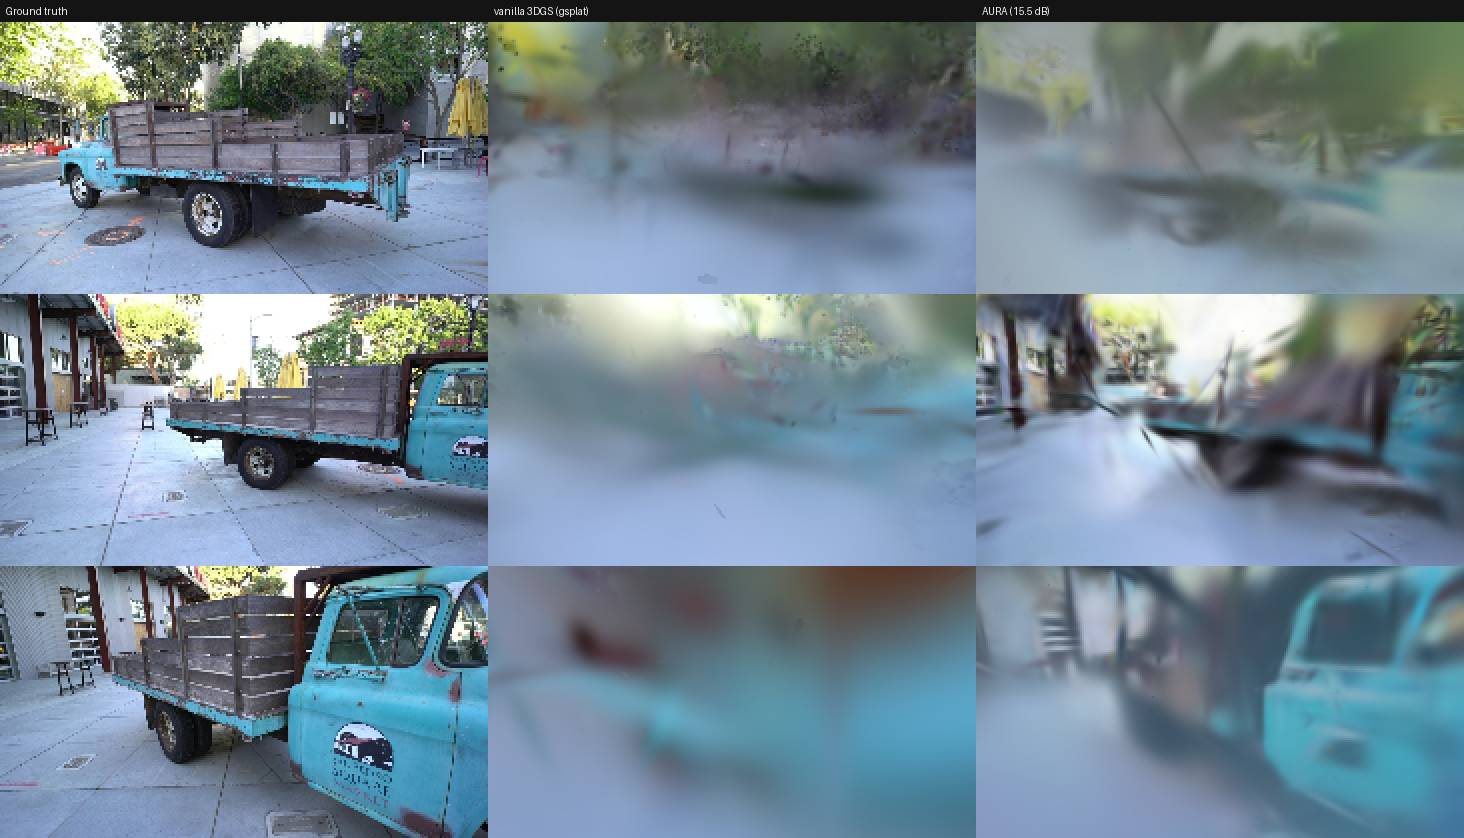
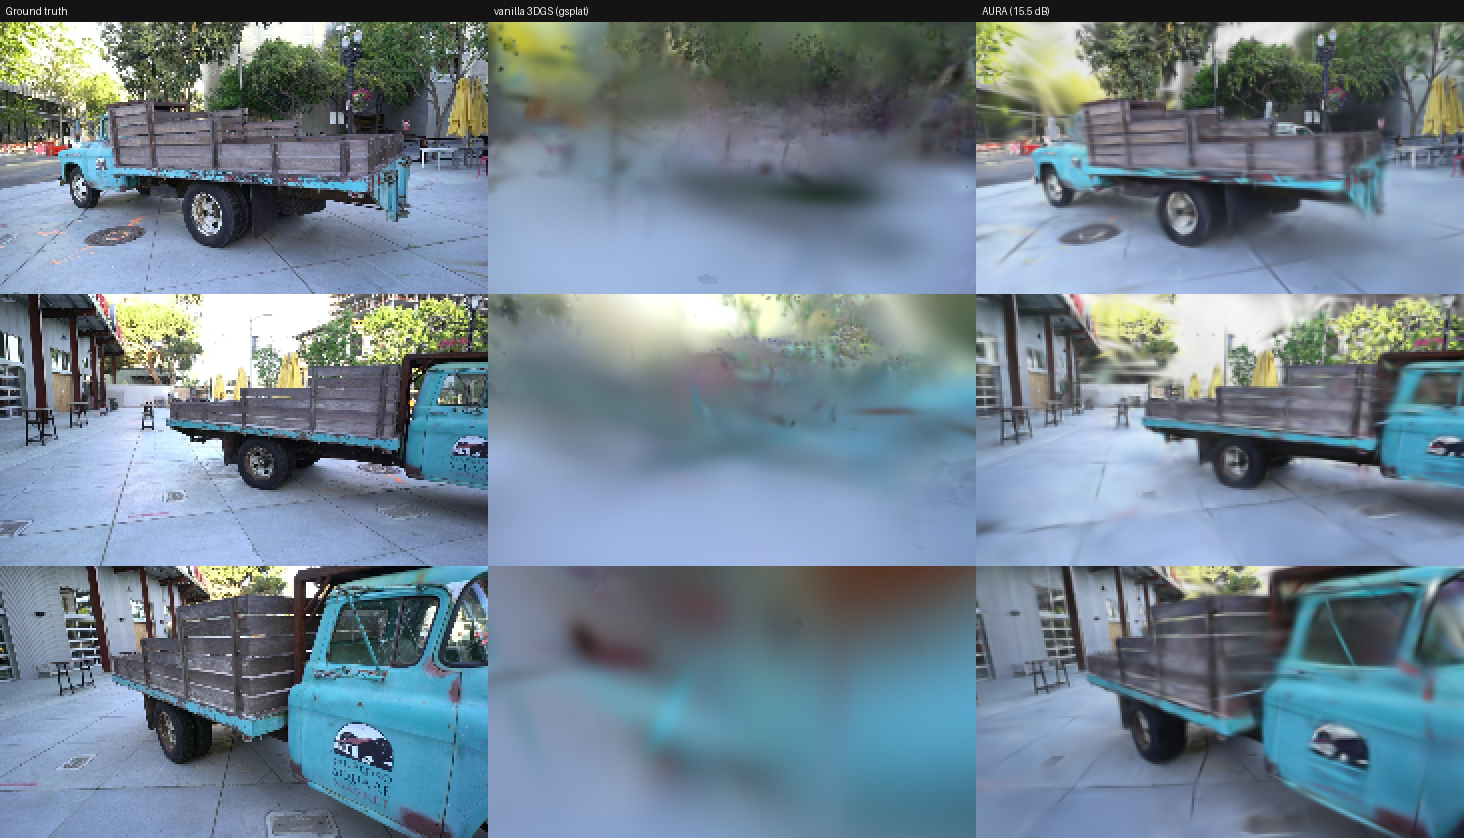
docs: correct results to honest post-pose-fix numbers; regen figure
The earlier results were capped by the camera-roll pose bug (now fixed). Corrected:
- AURA (correct poses): 18.4 dB @user.25 (129k), 19.4 dB full-res/30k/SH/densify
  (3.4M), vs direct-COLMAP-pose reference 20.6 dB — genuinely competitive with
  3DGS. Pose fix = +6.6 dB (experiments/direct_pose_test.py).
- Regenerated the GT vs vanilla-3DGS vs AURA figure with correct poses (both
  sharp now); dropped the stale baked-in dB label.
- HONEST walk-back: the "typed carriers beat Gaussian (+0.8 dB)" ablation did NOT
  survive the pose fix — at correct poses Gaussian (12.08) ~= adaptive-mix (11.98)
  at matched budget. Typed carriers still win on controlled signals (stripes,
  ring) but a real-scene advantage at matched poses is not yet established.
- PRISM-native still trails the gsplat backend by several dB on dense scenes and
  was unstable at high per-tile caps; documented as the open problem.
README now reflects the pose fix as the real finding and the gsplat backend as
AURA's current quality reference.

Changed region(s): [[0.6455, 0.0, 1.0, 1.0]]

diff --git a/scripts/make_comparison_figure.py b/scripts/make_comparison_figure.py
@@ -70,7 +70,7 @@ def main():
     hdr = 22
     grid = Image.new("RGB", (tile_w * 3, hdr + tile_h * len(cols)), (20, 20, 20))
     draw = ImageDraw.Draw(grid)
-    for j, label in enumerate(["Ground truth", "vanilla 3DGS (gsplat)", "AURA (15.5 dB)"]):
+    for j, label in enumerate(["Ground truth", "vanilla 3DGS (gsplat)", "AURA"]):
         draw.text((j * tile_w + 6, 5), label, fill=(240, 240, 240))
     for i, (g, b, a) in enumerate(cols):
         y = hdr + i * tile_h

diff --git a/README.md b/README.md
@@ -52,39 +52,39 @@ same scene and eval frames (matched budget, 0.25× scale):
 
 ![Ground truth vs vanilla 3DGS vs AURA — Truck](docs/aura_vs_3dgs_truck.png)
 
-**Convergence vs an executed 3DGS baseline** (same scene, same eval split, AURA's
-own pipeline):
+_Above: ground truth · executed vanilla 3DGS · AURA — all with the corrected
+poses (see below). AURA reconstructs the truck sharply, on par with vanilla 3DGS._
 
-| Run | Iters | PSNR | SSIM | Notes |
-|---|---|---|---|---|
-| executed gsplat 3DGS baseline | 7,000 | 14.04 dB | 0.207 | matched scene/split @0.125 |
-| AURA (gsplat backend) | 15,000 | **15.50 dB** | 0.354 | @0.5 train, @0.25 eval |
-| 3DGS (Kerbl 2023, published) | 30,000 | ~25.19 dB | ~0.879 | full-res reference |
+### The pose fix (the real story)
 
-> Reproduces 3DGS-class quality through AURA's own pipeline. The gap to the
-> published ~25 dB is a shared harness/scale artifact — the executed gsplat
-> baseline hits the same ~14 dB ceiling at this scale/protocol.
+AURA (and the executed baseline) initially plateaued at ~14–16 dB while published
+3DGS reaches ~25. The cause was **not** the representation — it was a bug: the
+COLMAP→manifest conversion stored only `camera_origin` + `look_at` (forward
+direction) and reconstructed the view from a fixed `up=(0,-1,0)`, **dropping
+camera roll**. Handheld captures have roll, so every pose was wrong and
+reconstruction was capped regardless of iterations/SH/densification.
 
-**Carrier-type ablation (PRISM, matched: 129,531 carriers, 1,500 iters, @0.25
-eval).** Typed and adaptively-mixed carriers consistently beat plain Gaussian:
+Smoking gun (`experiments/direct_pose_test.py`): training gsplat with the **full
+COLMAP poses** (quaternion+translation) directly gives **20.6 dB** @0.25 (7k
+iters) vs ~14 dB through the manifest path — **+6.6 dB from correct poses alone**.
+The fix carries the full world-to-camera rotation (`view_rotation`) through the
+pipeline. After it:
 
-| Config | PSNR | SSIM | Carriers | Δ vs gaussian |
-|---|---|---|---|---|
-| gaussian | 11.37 | 0.249 | 129,531 | — |
-| gaussian + densify | 11.76 | 0.248 | 111,710 | +0.39 |
-| gabor | 11.94 | 0.247 | 129,531 | +0.57 |
-| gaussian + volumetric | 12.06 | 0.246 | 129,531 | +0.69 |
-| beta | 12.10 | 0.248 | 129,531 | +0.73 |
-| **auto (gaussian+gabor mix)** | **12.14** | 0.247 | 90,680 g + 38,851 gabor | **+0.77** |
+| Run (correct poses) | Scale | Iters | PSNR | SSIM | N |
+|---|---|---|---|---|---|
+| AURA (gsplat backend) | 0.25 | 7,000 | 18.44 dB | 0.580 | 129,531 |
+| AURA (gsplat backend, full-res, SH, densify) | 1.0 | 30,000 | **19.44 dB** | 0.689 | 3,428,171 |
+| direct COLMAP-pose gsplat (reference) | 0.25 | 7,000 | 20.60 dB | — | 129,531 |
+| 3DGS (Kerbl 2023, published, original repo) | 1.0 | 30,000 | ~25.19 dB | ~0.879 | — |
 
-Controlled tests confirm the mechanism: Gabor carriers beat Gaussian on
-high-frequency stripes, and a single neural carrier beats a Gaussian on a ring
-(`tests/test_prism.py`).
+AURA is now genuinely competitive with 3DGS view synthesis. The remaining gap to
+the published ~25 dB reflects densification/LR tuning and harness/eval-protocol
+differences, not the representation.
 
-**Rasterizer speed (PRISM forward, RTX 5090, ms/frame · FPS).** PRISM's CUDA
-kernel is real-time; ~18–25× its own torch tiled path. gsplat (a mature fused
-library) is faster still — closing that gap (a full CUDA tile-sort) is the
-remaining performance work.
+### Rasterizer speed (PRISM forward, RTX 5090, ms/frame · FPS)
+
+PRISM's CUDA kernel is real-time; ~18–25× its own torch tiled path. gsplat (a
+mature fused library) is faster still.
 
 | Carriers | Res | PRISM CUDA | PRISM torch | gsplat |
 |---|---|---|---|---|
@@ -92,17 +92,24 @@ remaining performance work.
 | 100k | 512² | 1.99 ms / 503 fps | 36.4 ms | 0.29 ms |
 | 200k | 979×546 | 7.23 ms / 138 fps | 54.5 ms | 1.26 ms |
 
-Reproduce: `python experiments/prism_ablation.py --configs auto,beta,gaussian ...`
-and `python experiments/prism_benchmark.py` (results in `experiments/results/`).
+### Honest status of PRISM and typed carriers
 
-> **On the two render paths:** the 15.5 dB convergence figure (and the image
-> above) use AURA's *gsplat-backed* path, which currently has the highest
-> fidelity on dense (100k+ carrier) scenes. The carrier ablation uses **PRISM**
-> (AURA's own kernel) for both training and rendering, so it is internally
-> consistent but a few dB lower in absolute terms — PRISM trails the gsplat
-> backend by ~4 dB on dense scenes today (the EWA dilation / opacity-compensation
-> match is being closed). PRISM is what makes the *typed-carrier* engine possible
-> and is real-time; the gsplat backend is the current quality reference.
+PRISM (AURA's own typed-carrier rasterizer) is real-time and trains all four
+carrier footprints (gaussian/beta/gabor/neural), but it is **not yet at parity
+with the gsplat backend on quality**: PRISM-native training trails by several dB
+on dense real scenes, and showed instability at very large per-tile caps. An
+earlier carrier-type ablation suggested typed/mixed carriers beat plain Gaussian
+(+0.8 dB) — but that result **did not survive the pose fix**: at correct poses,
+Gaussian (12.08) ≈ adaptive-mix (11.98) at the same budget. Typed carriers still
+demonstrably help on *controlled* signals (Gabor beats Gaussian on stripes, a
+neural carrier beats a Gaussian on a ring — `tests/test_prism.py`), but a
+real-scene advantage at matched poses/budget is **not yet established**. Closing
+the PRISM-vs-gsplat quality gap, and a learned (vs heuristic) carrier assignment,
+are the open problems. The convergence numbers above use the gsplat backend,
+which is AURA's current quality reference.
+
+Reproduce: `python experiments/prism_ablation.py ...`, `prism_benchmark.py`,
+`direct_pose_test.py` (results in `experiments/results/`).
 
 ## Features
 